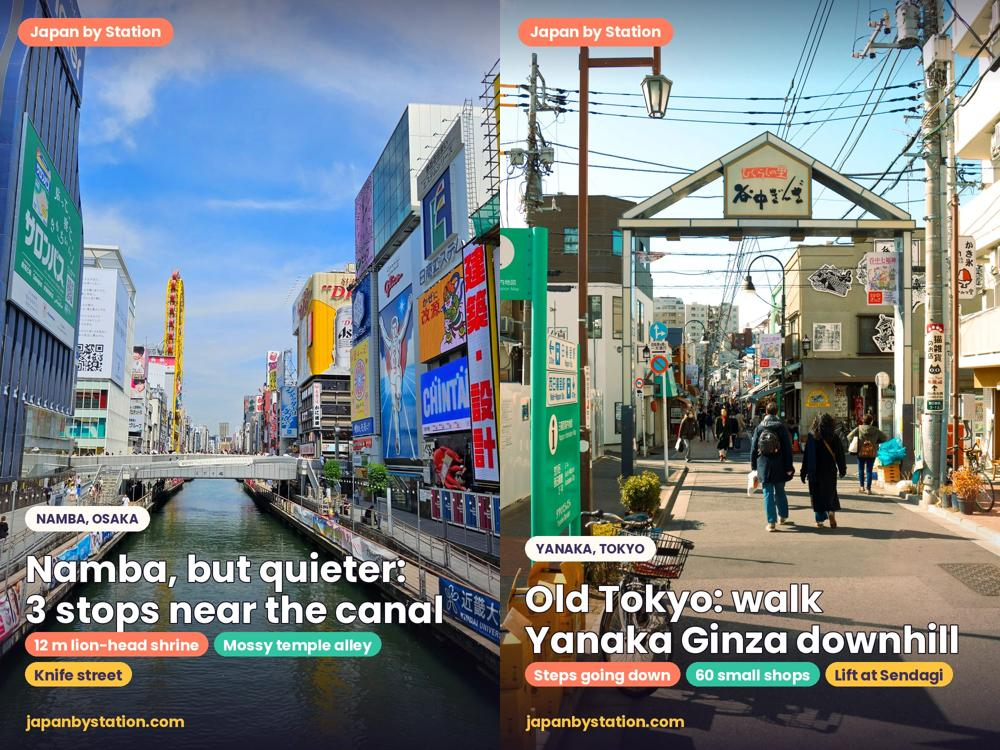
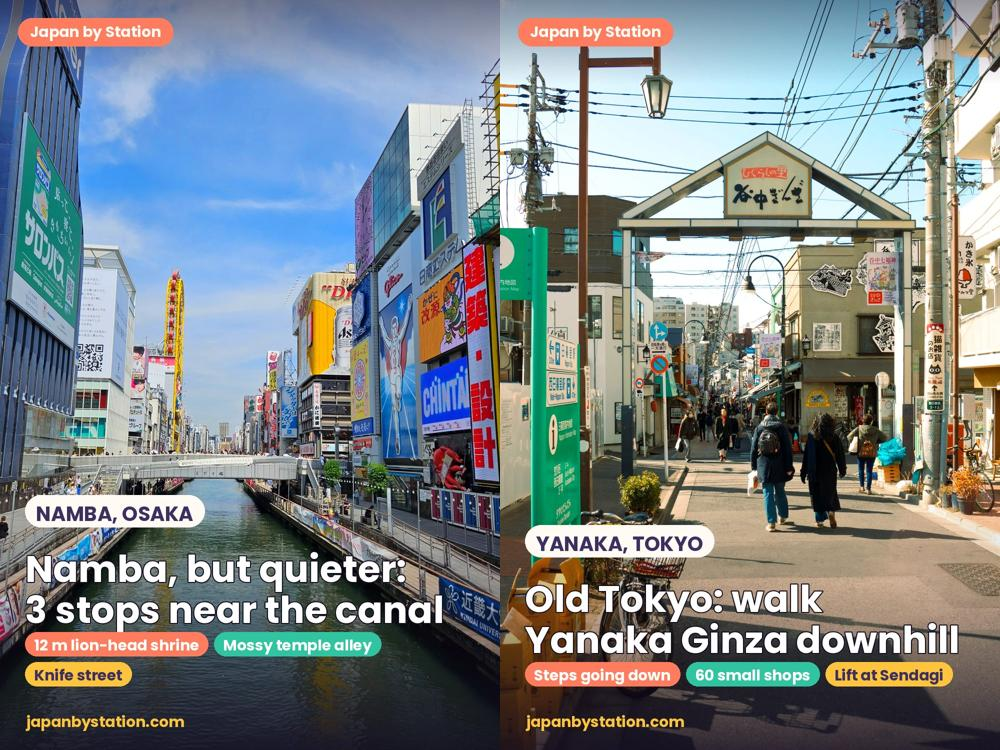
Pinterest: bigger place label on pinimg2 (Ling) [CF-Pages-Skip] [CF-Pages-Skip]

Changed region(s): [[0.527, 0.6747, 0.713, 0.7667], [0.0, 0.644, 0.217, 0.736]]

diff --git a/pinimg2.py b/pinimg2.py
@@ -47,7 +47,7 @@ def brand(d, x=36, y=36, size=30):
 def pill(d, x, y, text, size=28, fill=INK, color=WHITE):
     f = F(size); w = f.getlength(text)
     d.rounded_rectangle((x, y, x + w + 44, y + size + 24), radius=(size + 24) // 2, fill=fill + (255,))
-    d.text((x + 22, y + 7), text, font=f, fill=color); return w + 44
+    d.text((x + 22, y + 7 + max(0, size - 28) // 4), text, font=f, fill=color); return w + 44
 
 
 def chips(d, y, items, size=30):
@@ -80,7 +80,7 @@ def cover(src, title, kicker, out, fx=0.5, fy=0.5, hl=None):
     fs = 74
     while max(F(fs).getlength(l) for l in lines) > 900: fs -= 2
     lh = int(fs * 1.12); y = H - 110 - lh * len(lines) - extra
-    pill(d, 50, y - 74, kicker, 26, fill=CREAM, color=INK)
+    pill(d, 50, y - 96, kicker, 40, fill=CREAM, color=INK)  # Ling 24 Nov: place label bigger
     for l in lines:
         d.text((50, y), l, font=F(fs), fill=WHITE, stroke_width=2, stroke_fill=(18, 12, 32)); y += lh
     if items: chips(d, y + 14, items)
@@ -104,7 +104,7 @@ def collage(srcs, labels, title, kicker, out):
         while fl.getlength(lab) > cw - 110: fl = F(fl.size - 1)
         d.text((x + 88, y + ch - 70), lab, font=fl, fill=WHITE, stroke_width=2, stroke_fill=(18, 12, 32))
     d = ImageDraw.Draw(can); brand(d, size=26)
-    pill(d, 50, GH + 34, kicker, 24)
+    pill(d, 50, GH + 30, kicker, 32)
     fs = 62
     while F(fs).getlength(title) > 900: fs -= 2
     d.text((50, GH + 106), title, font=F(fs), fill=INK)
